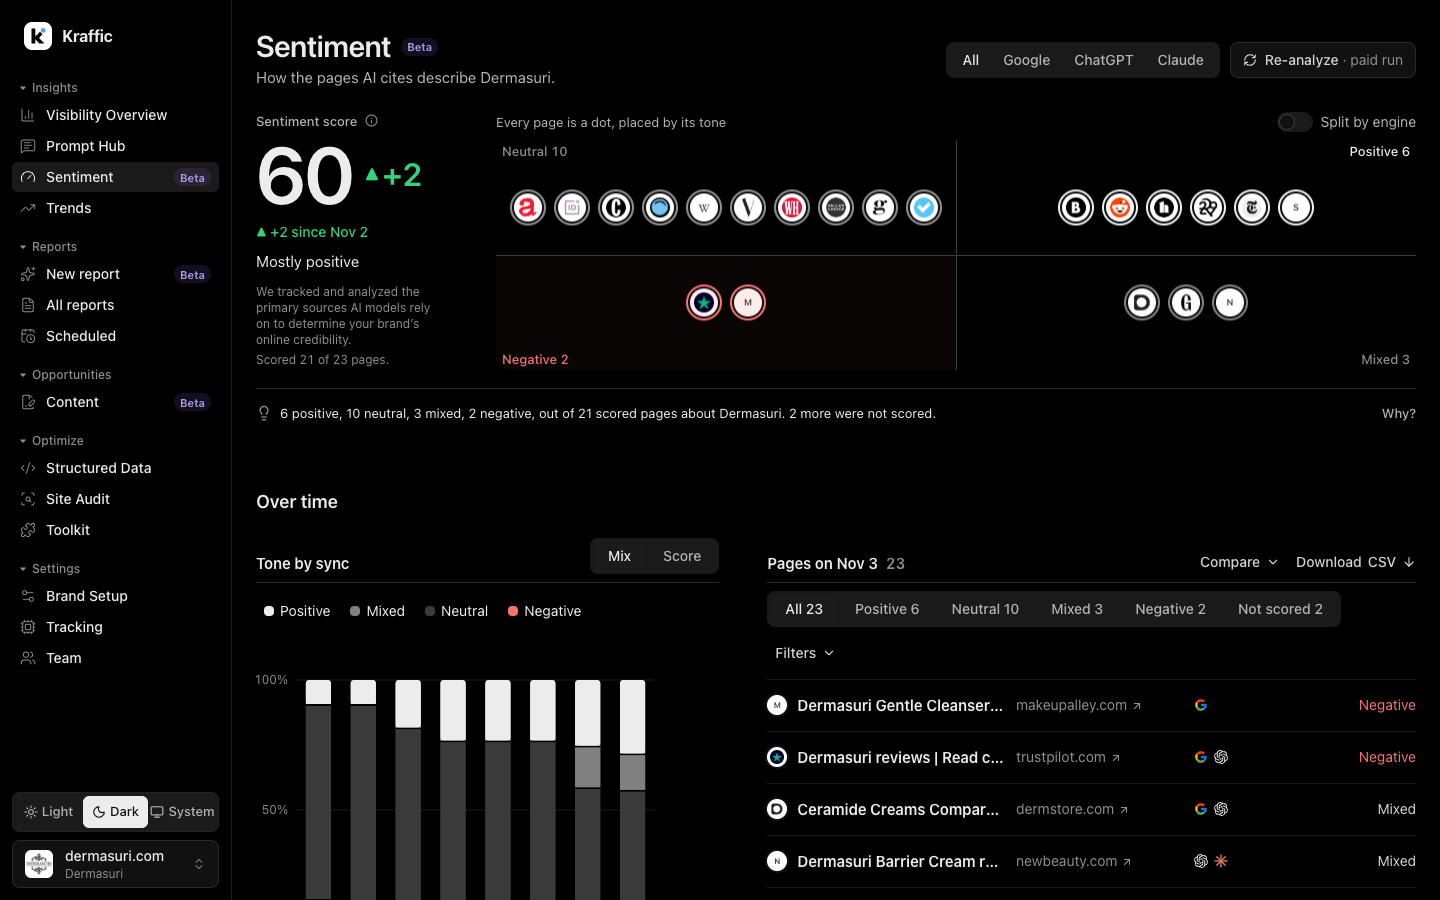
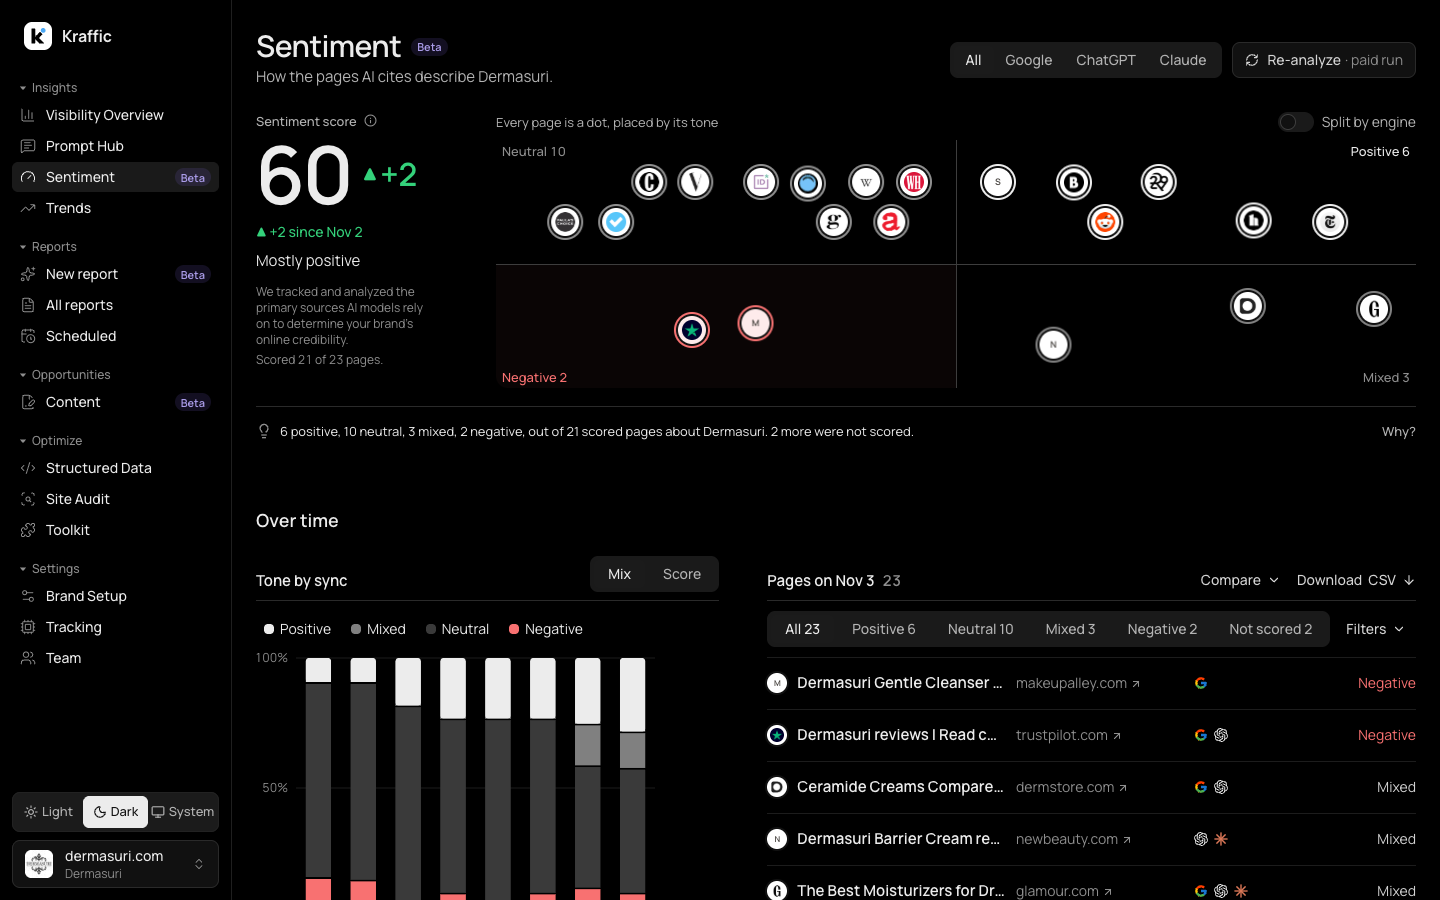
Sentiment grid: the dots scatter organically inside each quadrant instead of one straight row (owner, 2026-11-04; purely visual, position means nothing). utils/spectrum quadrantScatter: a jittered lattice per quadrant, each dot's slot and nudge seeded by its page URL (and engine when split), so the 

diff --git a/src/utils/spectrum.js b/src/utils/spectrum.js
@@ -415,3 +415,119 @@ export function quadrantPack(items, { width, height, r, gap = 8, rows = 2, label
 }
 // the smallest grid height that still fits two rows of dots in every quadrant
 export const quadrantMinH = (r, { gap = 8, rows = 2, label = 20, inset = 4 } = {}) => 2 * (label + rows * 2 * r + (rows - 1) * gap + 2 * inset)
+
+// ---- the tone grid, scattered (owner, 2026-11-04): each quadrant's dots sit at organic-looking spots that mean nothing
+// (purely visual), the same on every load. A jittered hex lattice per quadrant: dots keep `edge` px clear of the
+// quadrant's edges (so of the cross too) and of its corner label, and at least `gap` px between each other (the
+// jitter is capped by the lattice's slack, so they can't touch). Each dot's slot comes from a hash of its seed (the
+// page URL), so a dot keeps its spot when others come and go; 1–2 dots take the slots nearest the centre. More than
+// fit → the two slots farthest from the label become one "+n more" pill.
+// items: [{ key, tone, seed }] → { pos: { key: { x, y } }, more: { tone: { n, x, y, w } } }
+const seed01 = (s) => { let h = 2166136261; for (let i = 0; i < s.length; i++) h = Math.imul(h ^ s.charCodeAt(i), 16777619); return (h >>> 0) / 4294967296 }
+export function quadrantScatter(items, { width, height, r, gap = 10, edge = 24, labelW = {}, labelH = 18 }) {
+  const qw = width / 2, qh = height / 2, d = 2 * r + gap
+  const pos = {}, more = {}
+  for (const [tone, [cx, cy]] of Object.entries(QUADRANT)) {
+    const list = items.filter((it) => it.tone === tone)
+    if (!list.length) continue
+    const x0 = cx * qw + edge + r, x1 = (cx + 1) * qw - edge - r
+    const y0 = cy * qh + edge + r, y1 = (cy + 1) * qh - edge - r
+    const rows = Math.max(1, Math.floor(Math.max(0, y1 - y0) / (d * 0.866)) + 1)
+    const maxCols = Math.max(1, Math.floor(Math.max(0, x1 - x0) / d) + 1)
+    // only as many columns as the dots need (with a third spare, so the seeds have a choice): wider spacing, more
+    // room for each dot to wander
+    const cols = Math.min(maxCols, Math.max(2, Math.ceil((list.length * 1.35 + 2) / rows)))
+    const dx = cols > 1 ? (x1 - x0) / (cols - 1) : 0
+    const dy = rows > 1 ? (y1 - y0) / (rows - 1) : 0
+    // the corner label's box, grown by `edge` (top-left / top-right / bottom-left / bottom-right)
+    const lw = (labelW[tone] ?? 80) + edge, lh = labelH + edge
+    const lx0 = cx ? (cx + 1) * qw - lw : cx * qw, ly0 = cy ? (cy + 1) * qh - lh : cy * qh
+    const clearOfLabel = (x, y) => x + r <= lx0 || x - r >= lx0 + lw || y + r <= ly0 || y - r >= ly0 + lh
+    const slots = []
+    for (let i = 0; i < rows; i++) {
+      const odd = rows > 1 && i % 2 === 1
+      const n = odd && cols > 1 ? cols - 1 : cols
+      for (let j = 0; j < n; j++) {
+        const x = cols > 1 ? x0 + (odd ? dx / 2 : 0) + j * dx : (x0 + x1) / 2
+        const y = rows > 1 ? y0 + i * dy : (y0 + y1) / 2
+        if (clearOfLabel(x, y)) slots.push({ x, y, row: i })
+      }
+    }
+    // how far a dot may wander from its slot and still never come within `gap` of a neighbour
+    const near = Math.min(cols > 1 ? dx : Infinity, rows > 1 ? Math.hypot(cols > 1 ? dx / 2 : 0, dy) : Infinity)
+    const jit = Number.isFinite(near) ? Math.max(0, (near - d) / 2) : Math.min((x1 - x0) / 2, (y1 - y0) / 2)
+    const mid = { x: cx * qw + qw / 2, y: cy * qh + qh / 2 }
+    const over = list.length > slots.length
+    let free = [...slots]
+    if (over) {
+      // "+n more": two neighbouring slots in the row by the cross (farthest from the label), next to the middle; any
+      // slot within `gap` of the pill is left empty too
+      const rowY = cy ? Math.min(...free.map((s) => s.y)) : Math.max(...free.map((s) => s.y))
+      const row = free.filter((s) => s.y === rowY).sort((a, b) => a.x - b.x)
+      const i = Math.max(0, row.reduce((bi, s, k) => (Math.abs(s.x - mid.x) < Math.abs(row[bi].x - mid.x) ? k : bi), 0))
+      const a = row[i], b = row[i + 1] ?? row[i - 1] ?? null
+      const px = b ? (a.x + b.x) / 2 : a.x
+      const w = b ? Math.abs(b.x - a.x) + 2 * r : 2 * r
+      const m = { n: 0, x: px, y: a.y, w }
+      const hits = (s) => Math.abs(s.x - m.x) < m.w / 2 + r + gap && Math.abs(s.y - m.y) < 2 * r + gap
+      free = free.filter((s) => !hits(s))
+      more[tone] = { ...m, n: list.length - free.length }
+    }
+    // 1–2 dots: near the centre (side by side for two), each nudged a little by its seed, never a corner
+    if (list.length <= 2) {
+      const cxm = Math.min(x1, Math.max(x0, mid.x)), cym = Math.min(y1, Math.max(y0, mid.y))
+      list.forEach((it, i) => {
+        const s = it.seed ?? it.key
+        const off = list.length === 2 ? (i ? 1 : -1) * (d / 2 + 4 + seed01(`${s}|a`) * 8) : (seed01(`${s}|a`) - 0.5) * 16
+        pos[it.key] = { x: Math.min(x1, Math.max(x0, cxm + off)), y: Math.min(y1, Math.max(y0, cym + (seed01(`${s}|m`) - 0.5) * 12)) }
+      })
+      continue
+    }
+    const shown = list.slice(0, free.length)
+    const taken = new Set()
+    const clamp = (p) => ({ x: Math.min(x1, Math.max(x0, p.x)), y: Math.min(y1, Math.max(y0, p.y)) })
+    const placed = shown.map((it) => {
+      const s = it.seed ?? it.key
+      // the slot its seed points at; taken → the next free one along
+      let k = Math.floor(seed01(s) * free.length)
+      while (taken.has(k)) k = (k + 1) % free.length
+      taken.add(k)
+      return { it, s, slot: free[k] }
+    })
+    // organic: a seeded nudge of up to 14px, then a few deterministic passes push apart any two dots closer than d;
+    // if a pair is still too close, the safe nudge (capped by the lattice's slack) is used instead
+    const loose = placed.map(({ s, slot }) => { const a = seed01(`${s}|a`) * Math.PI * 2, m = seed01(`${s}|m`) * Math.max(jit, 14); return clamp({ x: slot.x + Math.cos(a) * m, y: slot.y + Math.sin(a) * m }) })
+    for (let pass = 0; pass < 40; pass++) {
+      let moved = false
+      for (let i = 0; i < loose.length; i++) for (let j = i + 1; j < loose.length; j++) {
+        const p = loose[i], q = loose[j], dist = Math.hypot(p.x - q.x, p.y - q.y)
+        if (dist >= d) continue
+        moved = true
+        const ux = dist ? (p.x - q.x) / dist : 1, uy = dist ? (p.y - q.y) / dist : 0, push = (d - dist) / 2 + 0.01
+        loose[i] = clamp({ x: p.x + ux * push, y: p.y + uy * push })
+        loose[j] = clamp({ x: q.x - ux * push, y: q.y - uy * push })
+      }
+      // the "+n more" pill is an obstacle too: a dot on it moves away up or down
+      const pill = more[tone]
+      if (pill) for (let i = 0; i < loose.length; i++) {
+        const p = loose[i]
+        if (Math.abs(p.x - pill.x) < pill.w / 2 + r + gap && Math.abs(p.y - pill.y) < 2 * r + gap) {
+          moved = true
+          loose[i] = clamp({ x: p.x, y: pill.y + (p.y >= pill.y ? 1 : -1) * (2 * r + gap + 0.01) })
+        }
+      }
+      if (!moved) break
+    }
+    const pill = more[tone]
+    const offPill = (p) => !pill || !(Math.abs(p.x - pill.x) < pill.w / 2 + r + gap - 0.01 && Math.abs(p.y - pill.y) < 2 * r + gap - 0.01)
+    const ok = loose.every(offPill) && loose.every((p, i) => loose.every((q, j) => j <= i || Math.hypot(p.x - q.x, p.y - q.y) >= d - 0.01))
+    placed.forEach(({ it, s, slot }, i) => {
+      if (ok) { pos[it.key] = loose[i]; return }
+      const a = seed01(`${s}|a`) * Math.PI * 2, m = seed01(`${s}|m`) * jit
+      pos[it.key] = clamp({ x: slot.x + Math.cos(a) * m, y: slot.y + Math.sin(a) * m })
+    })
+  }
+  return { pos, more }
+}
+// the grid height that gives every quadrant two staggered rows of dots, `edge` clear all round
+export const scatterMinH = (r, { gap = 10, edge = 24 } = {}) => 2 * Math.ceil(2 * edge + 2 * r + (2 * r + gap) * 0.866)

diff --git a/src/pages/insights/SentimentPage.jsx b/src/pages/insights/SentimentPage.jsx
@@ -16,7 +16,7 @@ import { useIsMobile, useMedia } from '../../hooks/useMedia'
 import {
   TONES, TONE_LABEL, countTones, heroLine, runPages, scoredLine, scoreInfo, unscoredNote, scoreOf, sentimentFor, sentimentInsight, shareTrendLine, sortPages, sourceCloud, tonePercents, withScores,
 } from '../../data/sentiment'
-import { BAND, QUADRANT, capStack, dotPlan, pageHref, groupThemes, matchIds, neighbour, quadrantMinH, quadrantPack, springEasing, staggerDelays, tellingSentence } from '../../utils/spectrum'
+import { BAND, QUADRANT, capStack, dotPlan, pageHref, groupThemes, matchIds, neighbour, quadrantScatter, scatterMinH, springEasing, staggerDelays, tellingSentence } from '../../utils/spectrum'
 import { ENGINE_NAME, SCORING_UPDATED_TIP, SENTIMENT_ENGINES, heroTone, scoringChangedAt, scoreCardDocked, scoreChangeLine, sortAllPages, syncColumns, syncScoreChange, tipLeft, alsoSaidOnSites, changedCount, compareCsv, compareCsvRow, compareEntries, compareFilename, compareList, compareMarks, enginesIn, evenColumns, filterSyncPages, newPageIds, sourceColumns, sourceLead, syncCsv, syncFilename, syncMarks, toneById, turnedNegative } from '../../utils/sentimentSections'
 import { fmtDay, lineBtn, t2, t3 } from './parts'
 import { CrossFade, GLIDE, Seg, useCountUp, useWidth } from '../../components/ui/motion'
@@ -525,7 +525,8 @@ const QUAD_TINT = { negative: 'color-mix(in srgb, var(--negative) 4%, transparen
 const QUAD_ORDER = ['neutral', 'positive', 'negative', 'mixed']
 
 // ---- the tone grid: 2×2 by tone (Neutral · Positive over Negative · Mixed), every page a dot in its tone's quadrant,
-// packed in rows (utils/spectrum quadrantPack). "Split by engine": one dot per citing engine, each with its engine's
+// scattered organically (utils/spectrum quadrantScatter: seeded by the page URL, so the same spots on every load; 10px
+// apart, 24px clear of the edges, the cross and the labels; position means nothing). "Split by engine": one dot per citing engine, each with its engine's
 // badge (pages carry one tone, so a page's engine dots share its quadrant). Dots move between quadrants with FLIP on
 // transform / opacity (Web Animations API), from wherever they are now, so an engine switch or another sync mid-move
 // reverses smoothly. No React state changes per frame.
@@ -574,7 +575,8 @@ function Spectrum({ pages: listed, lit, engine, split, onDot = (p) => openDrawer
   const r = mobile ? 12 : 18
   const W = Math.max(160, w)
   // about 240px; in the hero as tall as the score column (both end level), never shorter than two rows need
-  const H = Math.max(quadrantMinH(r), fitH ?? 240)
+  // about 240px, as tall as the score column (both end level); never less than two staggered rows of dots need
+  const H = Math.max(scatterMinH(r), fitH ?? 240)
   const { c, tone, setTone, explain } = filter || {}
   const counts = c ?? countTones(pages)
 
@@ -582,7 +584,9 @@ function Spectrum({ pages: listed, lit, engine, split, onDot = (p) => openDrawer
   const byId = new Map(pages.map((p) => [p.id, p]))
   const plan = dotPlan(pages, ENGINES, split).map((d) => ({ ...d, page: byId.get(d.pageId) }))
   const isActive = (d) => d.shown && (split ? engine === 'all' || d.lane === engine : engine === 'all' || d.page.engines.includes(engine))
-  const pack = (list) => quadrantPack(list.map((d) => ({ key: d.key, tone: d.page.tone })), { width: W, height: H, r })
+  // each corner label's width (13px medium, "Neutral 10"), for the 24px clearance around it
+  const labelW = Object.fromEntries(QUAD_ORDER.map((k) => [k, Math.ceil(`${TONE_LABEL[k]} ${counts[k] ?? 0}`.length * 7.4) + 12]))
+  const pack = (list) => quadrantScatter(list.map((d) => ({ key: d.key, tone: d.page.tone, seed: `${d.page.url ?? d.page.id}#${d.lane}` })), { width: W, height: H, r, labelW })
   const live = pack(plan.filter(isActive))
   const every = pack(plan.filter((d) => d.shown)) // where a dot that's off the grid fades out (its last place)
   const placed = plan.map((d) => {
@@ -615,7 +619,16 @@ function Spectrum({ pages: listed, lit, engine, split, onDot = (p) => openDrawer
     const order = [...placed].sort((a, b) => a.y - b.y || a.x - b.x)
     const delays = staggerDelays(order.length, engineOnly ? { step: 6, cap: 90 } : MOVE)
     let end = 0
-    order.forEach((d, i) => { end = Math.max(end, moveTo(els.current[d.key], `translate(${d.x - r}px, ${d.y - r}px)`, d.o, { delay: delays[i], first, ...(engineOnly ? { dur: 300 } : {}) })) })
+    order.forEach((d, i) => {
+      const el = els.current[d.key], t = `translate(${d.x - r}px, ${d.y - r}px)`
+      end = Math.max(end, moveTo(el, t, d.o, { delay: delays[i], first, ...(engineOnly ? { dur: 300 } : {}) }))
+      // the entrance: each dot fades in and drifts ~8px down into its spot, staggered (reduced motion: just there)
+      if (first && el && d.o > 0 && !reduced()) {
+        const delay = Math.min(i, 30) * 22
+        el.animate([{ transform: `translate(${d.x - r}px, ${d.y - r - 8}px)`, opacity: 0 }, { transform: t, opacity: d.o }], { duration: 420, delay, easing: 'cubic-bezier(.2,.8,.2,1)', fill: 'backwards' })
+        end = Math.max(end, delay + 420)
+      }
+    })
     if (end) { movingUntil.current = performance.now() + end; setHover(null) }
   }, [sig]) // eslint-disable-line react-hooks/exhaustive-deps
 
@@ -664,7 +677,7 @@ function Spectrum({ pages: listed, lit, engine, split, onDot = (p) => openDrawer
               style={{ width: 2 * r, height: 2 * r, willChange: 'transform' }}>
               {/* tone ring · a sliver of surface · a white plate, so dark logos show in both themes */}
               <span className="dot-in grid h-full w-full place-items-center rounded-full border-2 bg-surface transition-opacity duration-150"
-                style={{ borderColor: RING[d.page.tone], opacity: dim ? 0.3 : 1, animation: d.copy ? undefined : `dot-in 420ms cubic-bezier(.2,.8,.2,1) ${Math.min(n, 30) * 22}ms both` }}>
+                style={{ borderColor: RING[d.page.tone], opacity: dim ? 0.3 : 1 }}>
                 <span className="grid h-[calc(100%-4px)] w-[calc(100%-4px)] place-items-center rounded-full"
                   style={{ background: d.page.tone === 'negative' ? 'color-mix(in srgb, var(--negative) 14%, #fff)' : '#fff' }}>
                   <SiteLogo domain={d.page.domain} name={d.page.domain} className={`${mobile ? 'h-3.5 w-3.5' : 'h-5 w-5'} rounded-full !border-0 !bg-transparent`} initialClass="text-[9px] !text-[#44403c]" />

diff --git a/src/utils/scatter.test.js b/src/utils/scatter.test.js
@@ -1,0 +1,62 @@
+import { test } from 'node:test'
+import assert from 'node:assert/strict'
+import { QUADRANT, quadrantScatter, scatterMinH } from './spectrum.js'
+
+const R = 18, GAP = 10, EDGE = 24, W = 760
+const H = Math.max(scatterMinH(R), 240)
+const urls = (tone, n) => Array.from({ length: n }, (_, i) => ({ key: `${tone}${i}`, tone, seed: `https://site${i}.com/${tone}/page-${i}` }))
+const all = [...urls('neutral', 10), ...urls('positive', 6), ...urls('negative', 2), ...urls('mixed', 1)]
+const LABELS = { neutral: 75, positive: 75, negative: 78, mixed: 60 }
+const lay = () => quadrantScatter(all, { width: W, height: H, r: R, labelW: LABELS })
+
+test('no two dots closer than 10px; every dot 24px clear of its quadrant edges (and so of the cross)', () => {
+  const { pos } = lay()
+  const ps = Object.entries(pos)
+  for (let i = 0; i < ps.length; i++) for (let j = i + 1; j < ps.length; j++) {
+    const [, a] = ps[i], [, b] = ps[j]
+    assert.ok(Math.hypot(a.x - b.x, a.y - b.y) >= 2 * R + GAP - 0.01, `${ps[i][0]} and ${ps[j][0]} too close`)
+  }
+  for (const it of all) {
+    const [cx, cy] = QUADRANT[it.tone], p = pos[it.key]
+    assert.ok(p.x - R >= cx * W / 2 + EDGE - 0.01 && p.x + R <= (cx + 1) * W / 2 - EDGE + 0.01, `${it.key} x clear of the edges`)
+    assert.ok(p.y - R >= cy * H / 2 + EDGE - 0.01 && p.y + R <= (cy + 1) * H / 2 - EDGE + 0.01, `${it.key} y clear of the edges`)
+  }
+})
+
+test('dots stay 24px clear of the corner labels', () => {
+  const { pos } = lay()
+  for (const it of all) {
+    const [cx, cy] = QUADRANT[it.tone], p = pos[it.key]
+    const lw = LABELS[it.tone] + EDGE, lh = 18 + EDGE
+    const lx = cx ? (cx + 1) * W / 2 - lw : 0, ly = cy ? H - lh : 0
+    const clear = p.x + R <= lx || p.x - R >= lx + lw || p.y + R <= ly || p.y - R >= ly + lh
+    assert.ok(clear, `${it.key} overlaps the ${it.tone} label`)
+  }
+})
+
+test('the same layout on every load (seeded by the page URL)', () => {
+  assert.deepEqual(lay(), lay())
+})
+
+test('1–2 dots sit near their quadrant\'s centre; more spread over x and y', () => {
+  const { pos } = lay()
+  const near = (key, tone) => { const [cx, cy] = QUADRANT[tone]; const p = pos[key]; return Math.hypot(p.x - (cx + 0.5) * W / 2, p.y - (cy + 0.5) * H / 2) }
+  assert.ok(near('mixed0', 'mixed') < 60, 'one dot: near the centre')
+  for (const k of ['negative0', 'negative1']) assert.ok(near(k, 'negative') < 80, `${k}: near the centre`)
+  const xs = urls('neutral', 10).map((it) => pos[it.key].x), ys = urls('neutral', 10).map((it) => pos[it.key].y)
+  assert.ok(Math.max(...xs) - Math.min(...xs) > W / 4, 'spread across the width')
+  assert.ok(Math.max(...ys) - Math.min(...ys) > 20, 'and up and down')
+  assert.ok(new Set(ys.map(Math.round)).size > 3, 'not one straight row')
+})
+
+test('more than fit: "+n more" takes the place of the last dots, and no dot sits on it', () => {
+  const crowd = urls('positive', 40)
+  const { pos, more } = quadrantScatter(crowd, { width: W, height: H, r: R, labelW: LABELS })
+  assert.ok(more.positive && more.positive.n > 0)
+  assert.equal(Object.keys(pos).length + more.positive.n, 40)
+  for (const p of Object.values(pos)) {
+    const m = more.positive
+    const overlap = Math.abs(p.x - m.x) < m.w / 2 + R + GAP - 1 && Math.abs(p.y - m.y) < 2 * R + GAP - 1
+    assert.ok(!overlap, 'a dot on the +n more pill')
+  }
+})

diff --git a/src/pages/insights/SentimentPage.test.js b/src/pages/insights/SentimentPage.test.js
@@ -64,7 +64,7 @@ test('the insight line runs full width under the dot plot, on one line (owner, 2
 test('the tone grid is about 240px and as tall as the score column (fitH), never below two rows of dots', () => {
   assert.match(hero, /const measure = \(\) => setColH\(colTop\.current\?\.offsetHeight \?\? 0\)/)
   assert.match(hero, /<Spectrum [^>]*fitH=\{fitH\}/)
-  assert.match(spectrum, /const H = Math\.max\(quadrantMinH\(r\), fitH \?\? 240\)/)
+  assert.match(spectrum, /const H = Math\.max\(scatterMinH\(r\), fitH \?\? 240\)/)
   assert.match(page, /const CHART_CHROME = 26 /, 'no axis under the grid: only the label row above it')
 })
 
@@ -75,7 +75,8 @@ test('the tone grid: a faint --line-strong cross, a faint red only on Negative (
   assert.match(page, /const CORNER = \{ neutral: 'left-0 top-0', positive: 'right-0 top-0', negative: 'left-0 bottom-0', mixed: 'right-0 bottom-0' \}/)
   assert.match(page, /const QUAD_TEXT = \{ positive: 'text-ink', negative: 'text-negative', neutral: t3, mixed: t3 \}/)
   assert.doesNotMatch(spectrum, />Overall<|>Even</, 'no Overall marker, no Even label')
-  assert.match(spectrum, /quadrantPack\(/, 'dots packed by utils/spectrum quadrantPack (tested there)')
+  assert.match(spectrum, /quadrantScatter\(/, 'dots scattered by utils/spectrum quadrantScatter (tested there)')
+  assert.match(spectrum, /seed: `\$\{d\.page\.url \?\? d\.page\.id\}#\$\{d\.lane\}`/, 'seeded by the page URL (and the engine when split)')
   assert.match(spectrum, /\+\{m\.n\} more/, '"+n more" past two rows')
   assert.match(hero, /onMore=\{\(t\) => \{ setParams\(\{ ptone: t \}\); openDrawer\('syncpages', col\.r\.id\) \}\}/, '"+n more" opens the pages drawer on that tone')
 })
@@ -89,7 +90,9 @@ test('one engine switch on the page (the header\'s); Split by engine stays; no b
 
 test('the 2×2 is by tone only: no positioning matrix, no two-axis scatter (both reverted 2026-11-03)', () => {
   assert.doesNotMatch(page, /Niche players|Leaders|Laggers|Controversial/i)
-  assert.doesNotMatch(page, /citation reach|scatter/i)
+  // the reverted scatter was two-axis (position meant something); today's dots are scattered only for looks (owner,
+  // 2026-11-04), so no axis words and no reach axis
+  assert.doesNotMatch(page, /citation reach|two-axis|x-axis|y-axis/i)
   assert.match(page, /const QUAD_ORDER = \['neutral', 'positive', 'negative', 'mixed'\]/)
 })
 
